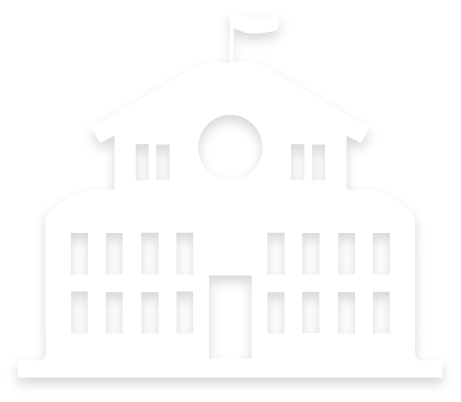
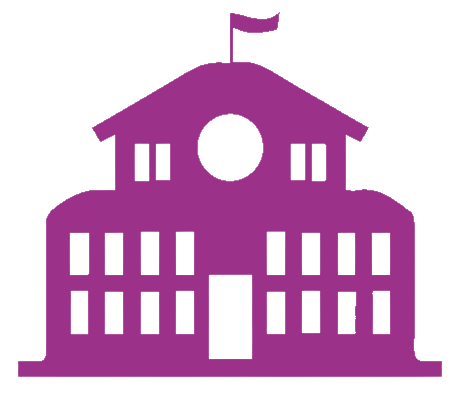
Updated the tabIcon of MySchool

diff --git a/app/Navigation/TabSchoolButton.js b/app/Navigation/TabSchoolButton.js
@@ -5,14 +5,14 @@ import Colors from 'constants/Colors'
 
 const TabSchoolButton = (props) => {
     const {
-
+        focused
     } = props;
 
     return (
         <View
             style={{
-                height: 81,
-                width: 81,
+                height: 78,
+                width: 78,
                 borderRadius: 500,
                 backgroundColor: Colors.violet,
                 justifyContent: 'center',
@@ -33,7 +33,7 @@ const TabSchoolButton = (props) => {
 
             }}  ></View> */}
 
-            <View style={{
+            {/* <View style={{
                 height: 48,
                 width: 48,
                 borderRadius: 48 / 2,
@@ -41,11 +41,11 @@ const TabSchoolButton = (props) => {
                 justifyContent: 'center',
                 alignItems: 'center',
 
-            }}>
+            }}> */}
 
-                <Image source={Images.tabSchool} style={{ height: 30, width: 30, resizeMode: 'contain' }} />
+                <Image source={ focused ? Images.tabSchool : Images.dactiveTabSchool } style={{ height: 30, width: 30, resizeMode: 'contain' }} />
 
-            </View>
+            {/* </View> */}
         </View>
     );
 };

diff --git a/app/Navigation/TabNavigator.js b/app/Navigation/TabNavigator.js
@@ -72,7 +72,7 @@ const TabNavigator = () => {
                 options={{
                     // tabBarLabel: 'My School',
                     tabBarIcon: ({ color, focused }) => (
-                        <TabSchoolButton />
+                        <TabSchoolButton focused={focused}/>
                     ),
                 }} />
             <Tab.Screen

diff --git a/app/constants/Images.js b/app/constants/Images.js
@@ -111,6 +111,7 @@ const Images = {
 
     //tab Icon
     tabSchool: require('assets/TabIcon/tabSchool.png'),
+    dactiveTabSchool: require('assets/TabIcon/dactiveTabSchool.png'),
     homeTab: require('assets/TabIcon/homeTab.png'),
     tabuser: require('assets/TabIcon/tabuser.png'),
     dactivehome: require('assets/TabIcon/dactivehome.png'),
